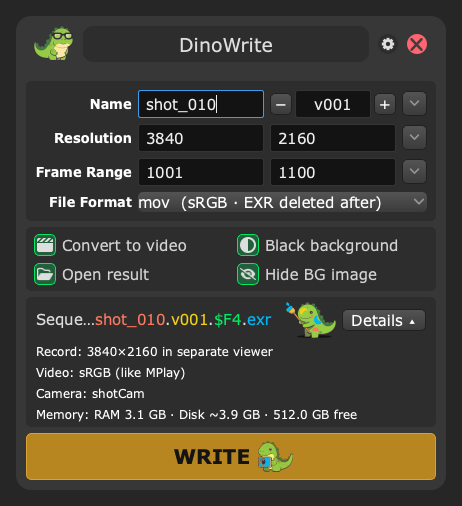
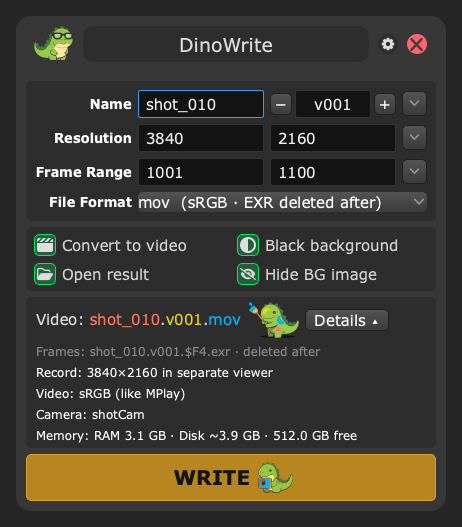
Convert to video: the info line shows the video WRITE produces (hover: its path); the EXR frames it's made from in grey in the details

diff --git a/main.py b/main.py
@@ -63,6 +63,7 @@ import hou
 import json
 
 from . import config, flipbook
+from .core import conversion
 from .core import acescg, helpers
 from .core.log import hmsg, log
 from .core.viewport import HouViewport
@@ -193,7 +194,11 @@ class DinoWriter(RoundedWindow, QWidget):
         lines = QWidget()
         details_layout = QVBoxLayout(lines)
         details_layout.setContentsMargins(0, 0, 0, 0)
-        for line in (self.statusline, self.videoline, self.cameraname, self.ramusage):
+        self.framesline = widgets.ElidedLabel("")
+        self.framesline.setStyleSheet("background-color: transparent; color: #8a8a8a;")
+        self.framesline.setCursor(Qt.IBeamCursor)
+        self.framesline.setTextInteractionFlags(Qt.TextSelectableByMouse)
+        for line in (self.framesline, self.statusline, self.videoline, self.cameraname, self.ramusage):
             details_layout.addWidget(line)
         self.info_details = widgets.Reveal(lines)
         info_layout.addWidget(self.info_details)
@@ -650,53 +655,73 @@ class DinoWriter(RoundedWindow, QWidget):
         self.fileformat.setToolTip(self.fileformat.currentData(Qt.ToolTipRole) or "")
 
     def updateColorfulLabel(self):
-
-        label =     ["Sequence: ",COLORS_PALLETE["white"]]
-        separator = [".",COLORS_PALLETE["white"]]
-        final_list = label
-
-        fb_name = self.paths.get("fb_name")
-        version = self.currentVersion()
-        for name in fb_name.split("."):
-            part = name.format(name=self.filename.text(),
-                                version=version,
-                                fileformat=self.fileFormat())
-            
-            if name == "{name}":
-                final_list.append(part)
-                final_list.append(COLORS_PALLETE["orange"])
-            elif regsearch(r"\$F\d+",name):
-                final_list.append(part)
-                final_list.append(COLORS_PALLETE["green"])
-            elif name == "{version}":
-                final_list.append(part)
-                final_list.append(COLORS_PALLETE["yellow"])
-            elif name == "{fileformat}":
-                final_list.append(part)
-                final_list.append(COLORS_PALLETE["blue"])
-            else:
-                final_list.append(name)
-                final_list.append(COLORS_PALLETE["white"])
-            final_list+=separator
-        final_list = final_list[:-len(separator)]  # no dot after the extension
+        """What WRITE produces: the video when Convert to video is on (its EXR frames in grey in the details),
+        the sequence otherwise"""
+        video = self.convertvideo.isChecked()
+        colors = {"{name}": "orange", "{version}": "yellow", "{fileformat}": "blue"}
+        parts = []
+        for name in self.paths.get("fb_name").split("."):
+            padding = regsearch(r"\$F\d+", name)
+            if video and padding:  # the video is named like the sequence up to the frame number
+                prefix = name[:padding.start()].rstrip("._-")
+                if prefix:
+                    parts.append((prefix, "white"))
+                parts.append((self.videoExt(), "blue"))
+                break
+            part = name.format(name=self.filename.text(), version=self.currentVersion(), fileformat=self.fileFormat())
+            parts.append((part, "green" if padding else colors.get(name, "white")))
+        final_list = ["Video: " if video else "Sequence: ", COLORS_PALLETE["white"]]
+        for index, (part, color) in enumerate(parts):
+            final_list += [part, COLORS_PALLETE[color]]
+            if index < len(parts) - 1:  # no dot after the extension
+                final_list += [".", COLORS_PALLETE["white"]]
         previous = self.seqname.fullText()
         self.seqname.update(final_list)
         self.seqname.setHoverText(self.outputPath())
+        self.updateFramesLine()
         if previous and self.seqname.fullText() != previous and self.isVisible():
             animation.hop(self.dino_paint)  # new name or version
             animation.refreshText(self.seqname)
 
+    def sequencePath(self) -> Path:
+        """First frame the flipbook will write ($HIP etc. expanded)"""
+        version = self.currentVersion()
+        name = self.paths.get("fb_name").format(name=self.filename.text(), version=version,
+                                                fileformat=self.fileFormat())
+        return helpers.versionFolder(self.paths.get("fb_folder"), self.filename.text(), version) / name
+
     def outputPath(self) -> str:
-        """Full path of the first frame the flipbook will write ($HIP etc. expanded), for the Sequence tooltip"""
+        """Full path of what WRITE produces (the video, or the first frame), for the Sequence tooltip"""
         try:
-            version = self.currentVersion()
-            name = self.paths.get("fb_name").format(name=self.filename.text(), version=version,
-                                                    fileformat=self.fileFormat())
-            path = helpers.versionFolder(self.paths.get("fb_folder"), self.filename.text(), version) / name
+            path = self.sequencePath()
+            if self.convertvideo.isChecked():
+                padding = regsearch(r"\$F\d+", self.paths.get("fb_name"))
+                path = conversion.videoPath(path, padding[0] if padding else "", self.videoExt())
         except Exception as e:  # noqa: BLE001 - a tooltip must never break the window
             log.warning("Can't resolve the output path: %s", e)
             return ""
         return path.as_posix()
+
+    def updateFramesLine(self):
+        """Video on: the EXR frames it is made from, grey (kept in ACEScg or deleted after)"""
+        video = self.convertvideo.isChecked()
+        if video:
+            advanced = self.settings["advanced"]
+            name = self.paths.get("fb_name").format(name=self.filename.text(), version=self.currentVersion(),
+                                                    fileformat=self.fileFormat())
+            if advanced.get("conversion_delete_input_sequence"):
+                fate = "deleted after"
+            else:
+                fate = "kept" + (", ACEScg" if advanced.get("exr_acescg", True) else "")
+            self.framesline.setText(f"Frames: {name} · {fate}")
+            try:
+                self.framesline.setExtraToolTip(self.sequencePath().as_posix())
+            except Exception:  # noqa: BLE001
+                self.framesline.setExtraToolTip("")
+        if self.framesline.isHidden() == video:
+            self.framesline.setVisible(video)
+            if hasattr(self, "info_expanded"):
+                self.setInfoExpanded(self.info_expanded, animate=False)
 
     def updateCameraLabel(self):
         animation.setTextAnimated(self.cameraname, f"Camera: {self.hou_viewport.cameraName()}")

diff --git a/tests/test_gui_smoke.py b/tests/test_gui_smoke.py
@@ -281,3 +281,21 @@ def test_sequence_hover_shows_the_full_path(houdini, hou, monkeypatch, tmp_path)
     window.updateColorfulLabel()
     assert window.seqname.toolTip() == (tmp_path / "preview/shot/v001/shot.v001.$F4.exr").resolve().as_posix()
     window.close()
+
+
+def test_video_on_shows_the_video_and_its_frames_in_grey(houdini, hou, monkeypatch, tmp_path):
+    import DinoWrite
+
+    monkeypatch.setattr(hou, "text", type("T", (), {"expandString": staticmethod(
+        lambda s: s.replace("$HIP", tmp_path.as_posix()))}), raising=False)
+    window = DinoWrite.show({})
+    window.paths["fb_folder"] = "$HIP/preview/{name}"
+    window.filename.setText("shot")
+    window.convertvideo.setChecked(True)
+    window.fileformat.setCurrentIndex(window.fileformat.findData("mp4"))
+    assert window.seqname.fullText() == "Video: shot.v001.mp4"
+    assert window.seqname.toolTip().endswith((tmp_path / "preview/shot/v001/shot.v001.mp4").resolve().as_posix())
+    assert not window.framesline.isHidden() and window.framesline.text().startswith("Frames: shot.v001.$F4.exr")
+    window.convertvideo.setChecked(False)
+    assert window.seqname.fullText().startswith("Sequence: shot.v001.$F4.") and window.framesline.isHidden()
+    window.close()

diff --git a/gui/widgets.py b/gui/widgets.py
@@ -133,7 +133,9 @@ class ColorfulLabel(Label):
         overflow = metrics.horizontalAdvance(self.fullText()) - (self.contentsRect().width() - 2)
         elided = self.isVisible() and overflow > 0 and bool(labels)
         if elided:
-            longest = max(range(len(labels)), key=lambda index: metrics.horizontalAdvance(labels[index]))
+            # the first part is the caption ("Sequence: "): it stays
+            candidates = range(1, len(labels)) if len(labels) > 1 else range(len(labels))
+            longest = max(candidates, key=lambda index: metrics.horizontalAdvance(labels[index]))
             label = labels[longest]
             target = metrics.horizontalAdvance(label) - overflow - metrics.horizontalAdvance("…")
             while label and metrics.horizontalAdvance(label) > target:
